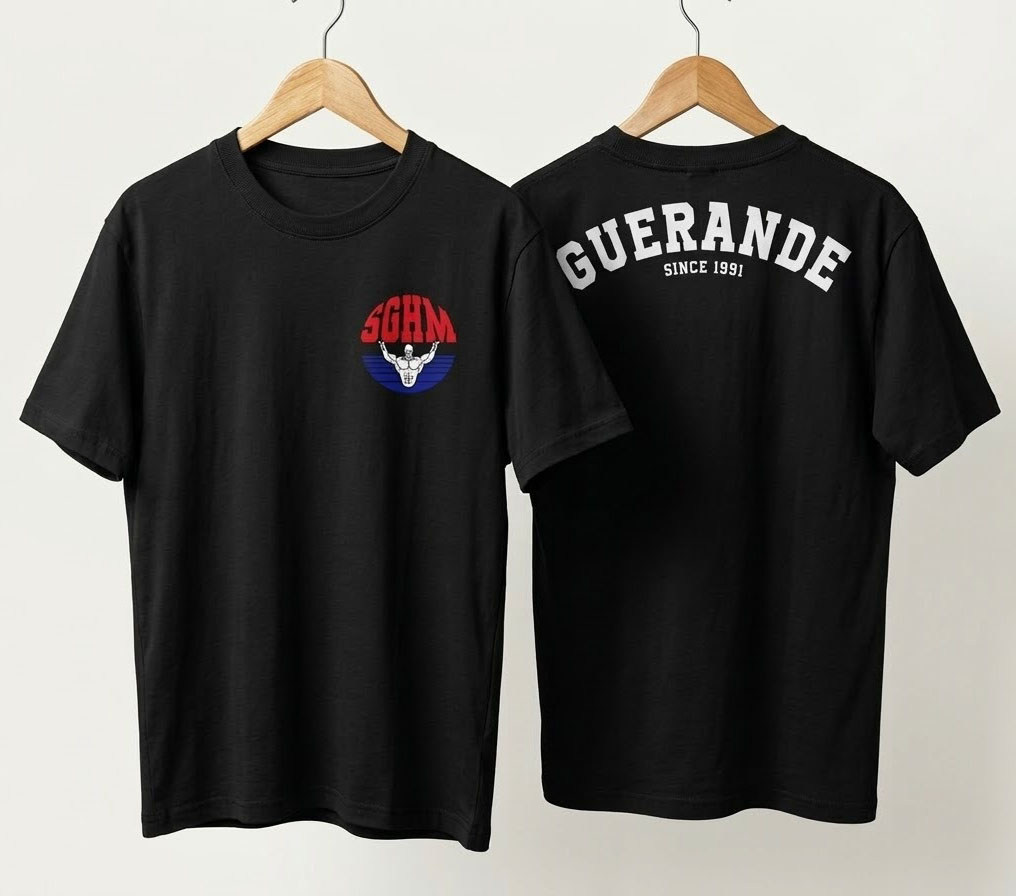
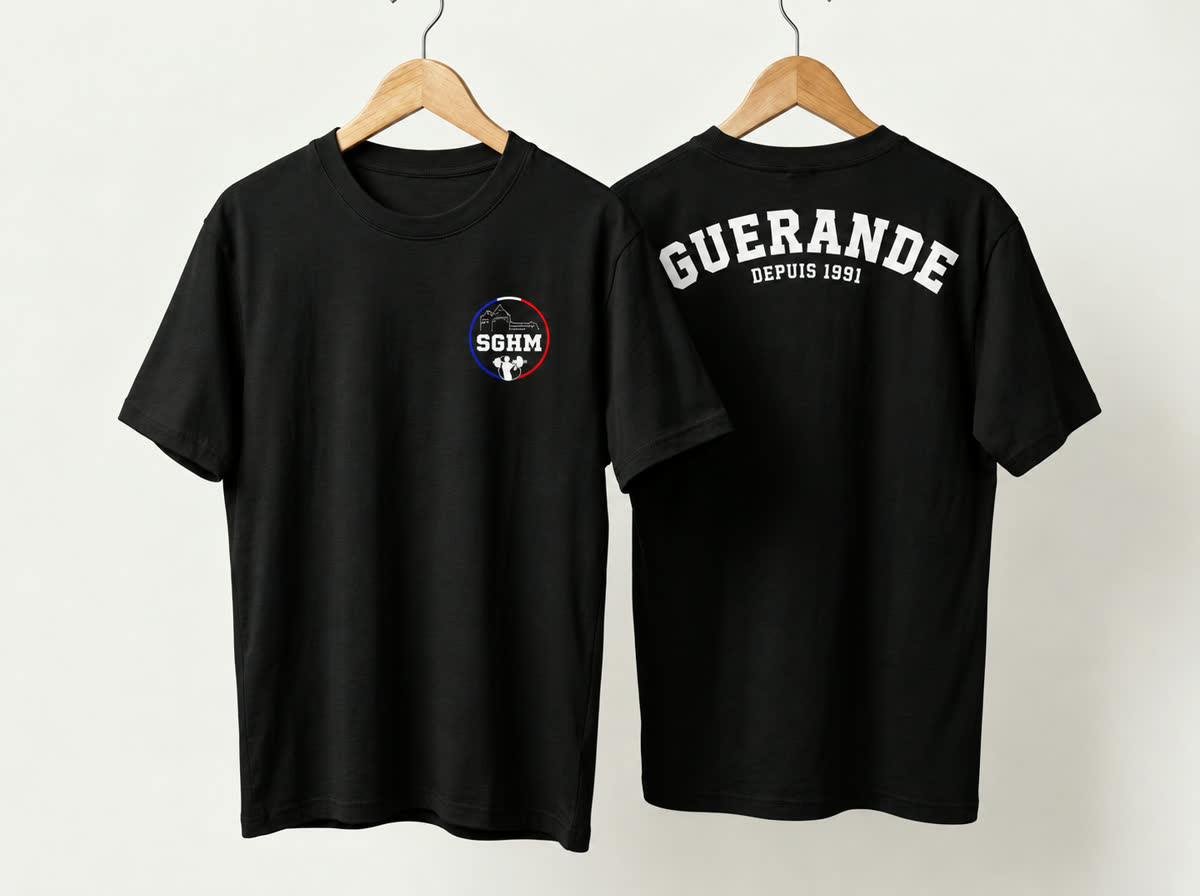
Update t-shirt photo to the "Guérande depuis 1991" design

diff --git a/app/components/PreorderSection.vue b/app/components/PreorderSection.vue
@@ -21,7 +21,7 @@ const SIZES = ['XS', 'S', 'M', 'L', 'XL', 'XXL']
         <div class="preorder__photo">
           <img
             src="/tshirt-club.jpeg"
-            alt="T-shirt noir SGHM : logo du club sur le devant, inscription « Guérande since 1991 » dans le dos"
+            alt="T-shirt noir SGHM : logo du club sur le devant, inscription « Guérande depuis 1991 » dans le dos"
             loading="lazy"
             decoding="async"
           >
@@ -73,7 +73,7 @@ const SIZES = ['XS', 'S', 'M', 'L', 'XL', 'XXL']
 
 .preorder__photo {
   position: relative;
-  aspect-ratio: 1016 / 896;
+  aspect-ratio: 1200 / 896;
   background: #f1efec;
 }
 
